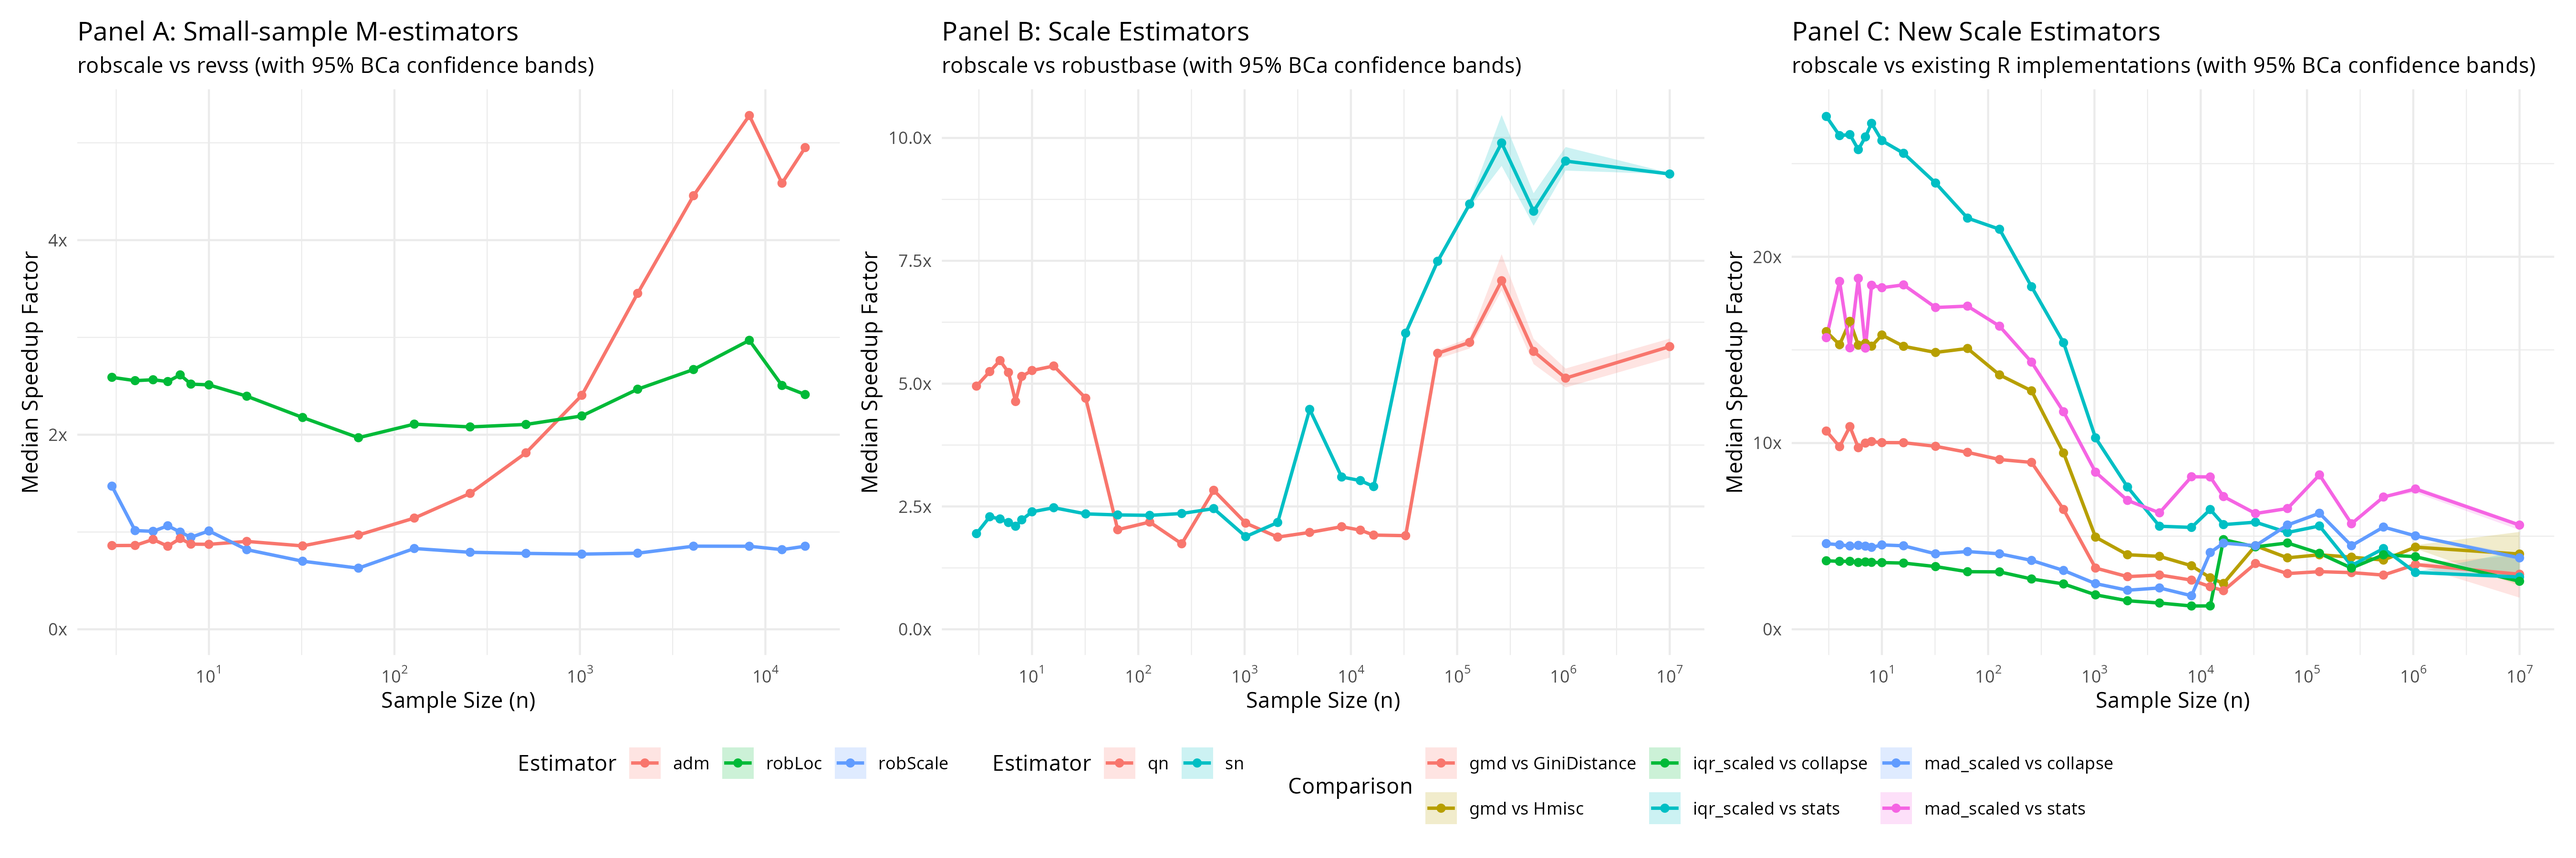
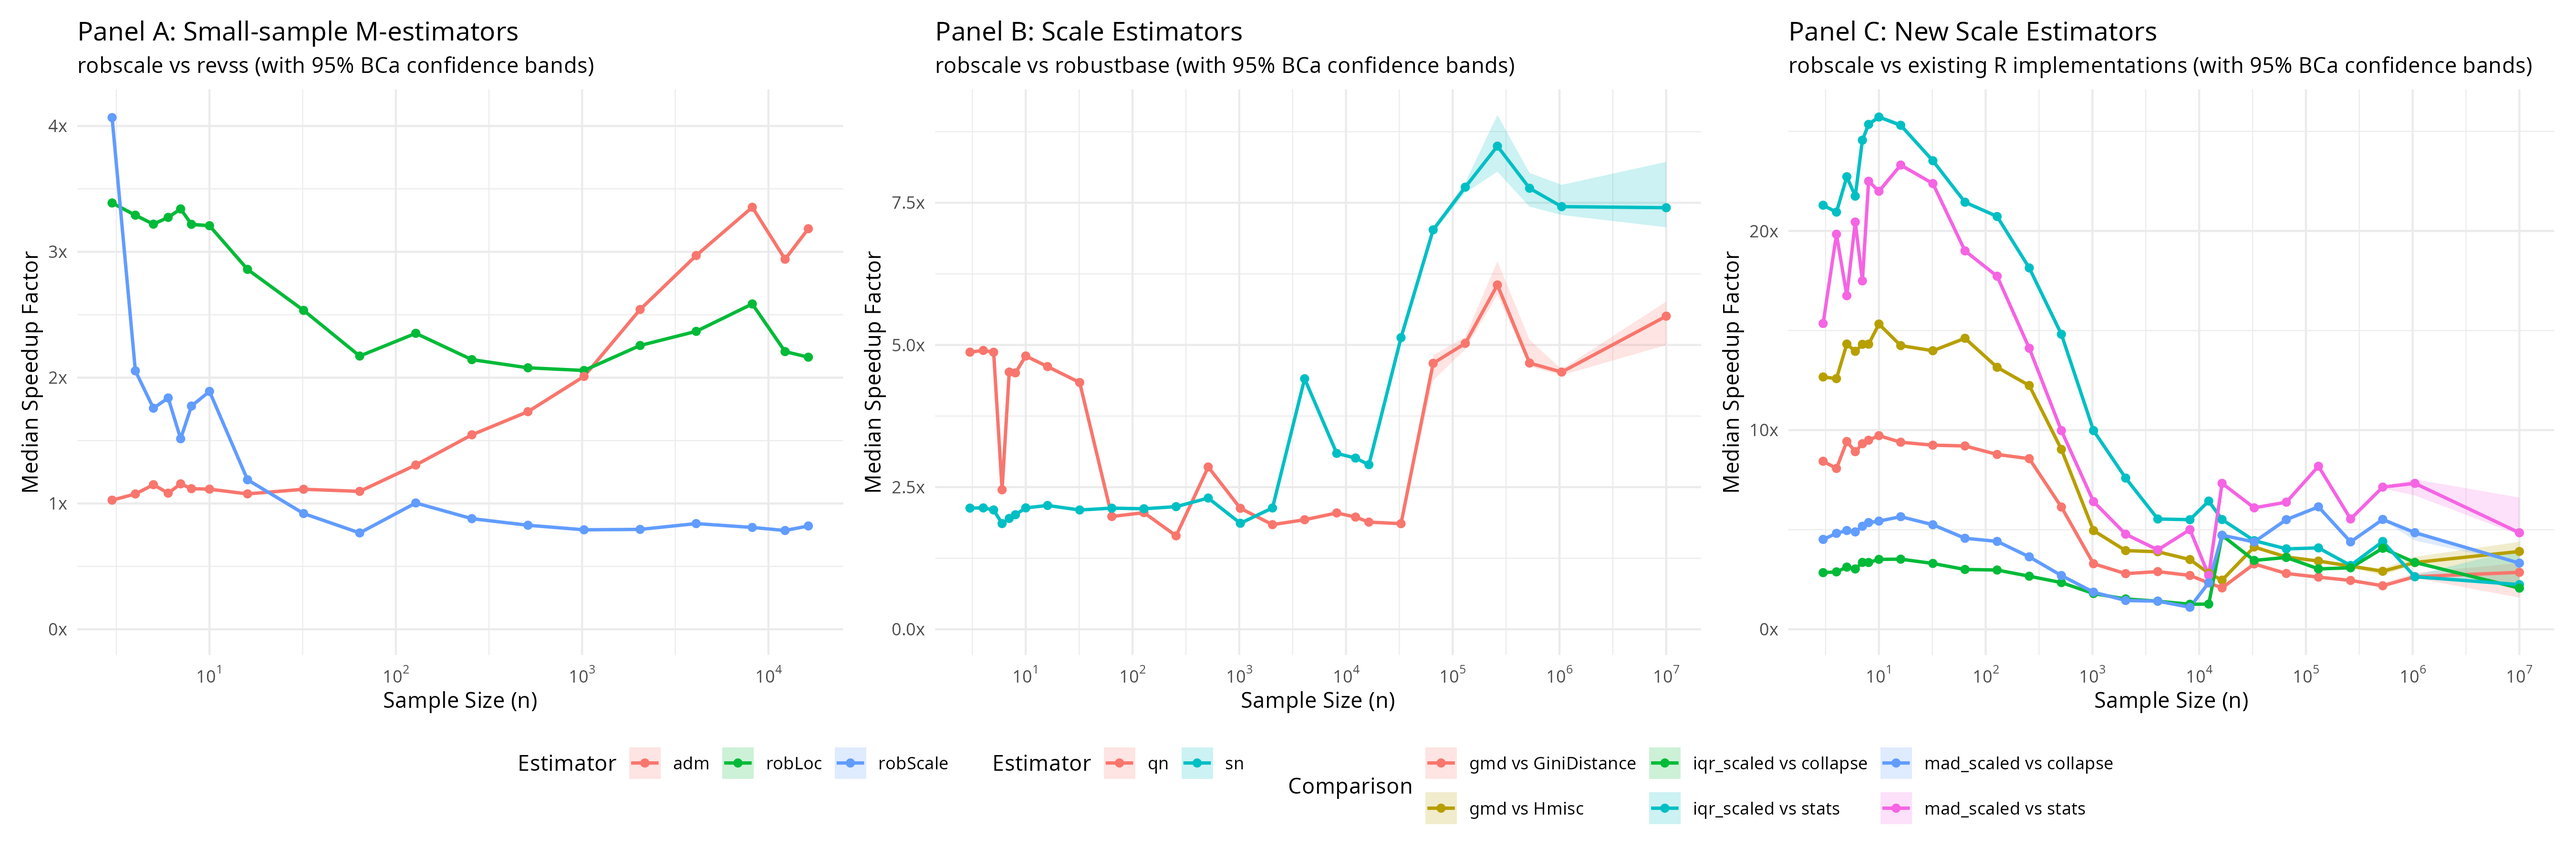
docs: update benchmarks for n <= 64 optimal selection networks

diff --git a/README.md b/README.md
@@ -27,13 +27,13 @@ All estimators are implemented as C++17 kernels. The M-estimators use
 vectorized `tanh` evaluation (where batch sizes justify the overhead)
 and Newton–Raphson iteration; $`Q_n`$ and $`S_n`$ use parallelized
 $`O(n \log n)`$ algorithms via TBB. Against `revss`, the package achieves
-**0.8–2.6x** speedups for the small-sample M-estimators. Against
-`robustbase`, it achieves **1.9–9.9x** for $`S_n`$ and **1.7–7.1x** for
-$`Q_n`$—with gains peaking near **9.9x** at $`n = 10^7`$ as TBB parallelism
+**1.0–4.1x** speedups for the small-sample M-estimators. Against
+`robustbase`, it achieves **1.9–8.5x** for $`S_n`$ and **1.6–6.1x** for
+$`Q_n`$—with gains peaking near **8.5x** at $`n = 10^7`$ as TBB parallelism
 reduces the computational bottleneck for massive datasets. The new
 estimators (`gmd`, `iqr_scaled`, `mad_scaled`) outperform their base R
-and CRAN counterparts by **2.5–16.5x** (GMD vs `Hmisc`), **2.8–27.5x**
-(IQR vs `stats::IQR`), and **5.6–18.8x** (MAD vs `stats::mad`).
+and CRAN counterparts by **2.5–15.3x** (GMD vs `Hmisc`), **2.2–25.7x**
+(IQR vs `stats::IQR`), and **2.7–23.3x** (MAD vs `stats::mad`).
 
 ## Installation
 
@@ -739,12 +739,12 @@ Table 3
 
 |      $`n`$ | `robustbase::Qn` | `robscale::qn` | Speedup  |
 |---------:|:-----------------|:---------------|:---------|
-|        8 | 9.5 µs           | 1.8 µs         | **5.1x** |
-|       16 | 10.4 µs          | 1.9 µs         | **5.4x** |
-|       64 | 15.1 µs          | 7.4 µs         | **2.0x** |
-|     1024 | 468.2 µs         | 215.6 µs       | **2.2x** |
-|    65536 | 59586.2 µs       | 10591.2 µs     | **5.6x** |
-| 10000000 | 10.6 s           | 1.8 s          | **5.8x** |
+|        8 | 9.5 µs           | 2.1 µs         | **4.5x** |
+|       16 | 10.4 µs          | 2.3 µs         | **4.6x** |
+|       64 | 15.1 µs          | 7.6 µs         | **2.0x** |
+|     1024 | 468.2 µs         | 220.0 µs       | **2.1x** |
+|    65536 | 59586.2 µs       | 12208.7 µs     | **4.7x** |
+| 10000000 | 10.6 s           | 1.9 s          | **5.5x** |
 
 </div>
 
@@ -754,12 +754,12 @@ Table 4
 
 |      $`n`$ | `robustbase::Sn` | `robscale::sn` | Speedup  |
 |---------:|:-----------------|:---------------|:---------|
-|        8 | 4.0 µs           | 1.8 µs         | **2.2x** |
-|       16 | 4.5 µs           | 1.8 µs         | **2.5x** |
-|       64 | 5.6 µs           | 2.4 µs         | **2.3x** |
-|     1024 | 35.2 µs          | 18.7 µs        | **1.9x** |
-|    65536 | 6751.1 µs        | 908.0 µs       | **7.5x** |
-| 10000000 | 1.4 s            | 0.2 s          | **9.3x** |
+|        8 | 4.0 µs           | 2.0 µs         | **2.0x** |
+|       16 | 4.5 µs           | 2.1 µs         | **2.2x** |
+|       64 | 5.6 µs           | 2.6 µs         | **2.1x** |
+|     1024 | 35.2 µs          | 18.9 µs        | **1.9x** |
+|    65536 | 6751.1 µs        | 973.8 µs       | **7.0x** |
+| 10000000 | 1.4 s            | 0.2 s          | **7.4x** |
 
 </div>
 
@@ -849,7 +849,7 @@ compares `qn` and `sn` against `robustbase`; Panel C compares `gmd`,
 ### Small-sample M-estimators vs. `revss` (Panel A)
 
 In the target regime ($`n \le 20`$), `robscale` outperforms `revss` by
-**0.8–2.6x**. Drivers include:
+**1.0–4.1x**. Drivers include:
 
 - Transitioning from interpreted R to compiled C++17.
 - Achieving quadratic convergence with Newton–Raphson (3 iterations vs
@@ -857,7 +857,7 @@ In the target regime ($`n \le 20`$), `robscale` outperforms `revss` by
 - Eliminating heap allocation via stack-allocated memory arenas.
 - Deploying optimal sorting networks for $`n \le 16`$.
 
-Even at $`n = 16{,}384`$, the gains remain **0.9–5.0x** because the
+Even at $`n = 16{,}384`$, the gains remain **0.8–3.2x** because the
 interpreter overhead of `revss` scales with the number of Newton–Raphson
 iterations, not just vector length.
 
@@ -867,15 +867,15 @@ For $`Q_n`$ and $`S_n`$, the performance story follows two regimes separated
 by the parallelism threshold:
 
 **Small to medium samples ($`n \le 10^3`$).** `robscale` leads by
-**1.7–7.1x**. The gain comes primarily from the avoidance of R dispatch
+**1.6–6.1x**. The gain comes primarily from the avoidance of R dispatch
 overhead and the use of stack memory. For $`Q_n`$ at $`n = 8`$, the
-brute-force exact algorithm completes in 1.8 µs vs. 9.5 µs for
-`robustbase` — a **5.1x** edge.
+brute-force exact algorithm completes in 2.1 µs vs. 9.5 µs for
+`robustbase` — a **4.5x** edge.
 
-**Large samples ($`n \ge 10^4`$).** The advantage grows to **1.9–9.9x** as
-TBB parallelism engages. At $`n = 10^7`$, `qn` runs in 1.8 s vs. 10.6 s
-for `robustbase::Qn` (**5.8x**), and `sn` runs in 0.2 s vs. 1.4 s
-(**9.3x**). Parallel efficiency is bounded by Amdahl’s Law and memory
+**Large samples ($`n \ge 10^4`$).** The advantage grows to **1.9–8.5x** as
+TBB parallelism engages. At $`n = 10^7`$, `qn` runs in 1.9 s vs. 10.6 s
+for `robustbase::Qn` (**5.5x**), and `sn` runs in 0.2 s vs. 1.4 s
+(**7.4x**). Parallel efficiency is bounded by Amdahl’s Law and memory
 bandwidth; while the multi-threaded kernels provide substantial gains
 for massive datasets, speedups do not scale linearly with thread count.
 
@@ -887,52 +887,52 @@ Table 5
 
 |      $`n`$ | Comparison             | Speedup   |
 |---------:|:-----------------------|:----------|
-|       64 | gmd vs GiniDistance    | **9.5x**  |
-|       64 | gmd vs Hmisc           | **15.1x** |
-|       64 | iqr_scaled vs collapse | **3.1x**  |
-|       64 | iqr_scaled vs stats    | **22.1x** |
-|       64 | mad_scaled vs collapse | **4.2x**  |
-|       64 | mad_scaled vs stats    | **17.4x** |
+|       64 | gmd vs GiniDistance    | **9.2x**  |
+|       64 | gmd vs Hmisc           | **14.6x** |
+|       64 | iqr_scaled vs collapse | **3.0x**  |
+|       64 | iqr_scaled vs stats    | **21.4x** |
+|       64 | mad_scaled vs collapse | **4.6x**  |
+|       64 | mad_scaled vs stats    | **19.0x** |
 |     1024 | gmd vs GiniDistance    | **3.3x**  |
-|     1024 | gmd vs Hmisc           | **4.9x**  |
-|     1024 | iqr_scaled vs collapse | **1.9x**  |
-|     1024 | iqr_scaled vs stats    | **10.3x** |
-|     1024 | mad_scaled vs collapse | **2.5x**  |
-|     1024 | mad_scaled vs stats    | **8.4x**  |
-|    65536 | gmd vs GiniDistance    | **3.0x**  |
-|    65536 | gmd vs Hmisc           | **3.8x**  |
-|    65536 | iqr_scaled vs collapse | **4.6x**  |
-|    65536 | iqr_scaled vs stats    | **5.2x**  |
-|    65536 | mad_scaled vs collapse | **5.6x**  |
-|    65536 | mad_scaled vs stats    | **6.5x**  |
-| 10000000 | gmd vs GiniDistance    | **3.0x**  |
-| 10000000 | gmd vs Hmisc           | **4.0x**  |
-| 10000000 | iqr_scaled vs collapse | **2.6x**  |
-| 10000000 | iqr_scaled vs stats    | **2.8x**  |
-| 10000000 | mad_scaled vs collapse | **3.8x**  |
-| 10000000 | mad_scaled vs stats    | **5.6x**  |
+|     1024 | gmd vs Hmisc           | **5.0x**  |
+|     1024 | iqr_scaled vs collapse | **1.8x**  |
+|     1024 | iqr_scaled vs stats    | **10.0x** |
+|     1024 | mad_scaled vs collapse | **1.9x**  |
+|     1024 | mad_scaled vs stats    | **6.4x**  |
+|    65536 | gmd vs GiniDistance    | **2.8x**  |
+|    65536 | gmd vs Hmisc           | **3.6x**  |
+|    65536 | iqr_scaled vs collapse | **3.6x**  |
+|    65536 | iqr_scaled vs stats    | **4.0x**  |
+|    65536 | mad_scaled vs collapse | **5.5x**  |
+|    65536 | mad_scaled vs stats    | **6.4x**  |
+| 10000000 | gmd vs GiniDistance    | **2.9x**  |
+| 10000000 | gmd vs Hmisc           | **3.9x**  |
+| 10000000 | iqr_scaled vs collapse | **2.1x**  |
+| 10000000 | iqr_scaled vs stats    | **2.2x**  |
+| 10000000 | mad_scaled vs collapse | **3.3x**  |
+| 10000000 | mad_scaled vs stats    | **4.8x**  |
 
 </div>
 
-**GMD** (`robscale::gmd` vs `Hmisc::GiniMd`): **2.5–16.5x** speedup.
+**GMD** (`robscale::gmd` vs `Hmisc::GiniMd`): **2.5–15.3x** speedup.
 `Hmisc::GiniMd` is a pure R implementation using the same $`O(n \log n)`$
 order-statistics formula. The speedup comes from C++ compilation and
 sorting networks for small $`n`$. Against `GiniDistance::gmd` (an
-Rcpp-backed C++ implementation), the comparison is **2.1–10.9x**—a
+Rcpp-backed C++ implementation), the comparison is **2.1–9.7x**—a
 tighter race since both are compiled, with `robscale`’s advantage coming
 from sorting networks and the consistency-constant integration.
 
-**IQR** (`robscale::iqr_scaled` vs `stats::IQR`): **2.8–27.5x** speedup.
+**IQR** (`robscale::iqr_scaled` vs `stats::IQR`): **2.2–25.7x** speedup.
 `stats::IQR` performs a full $`O(n \log n)`$ sort via `quantile()`.
 `robscale` uses dual $`O(n)`$ pdqselect calls, which dominate at large
 $`n`$. Against `collapse::fquantile` (a C-backed quantile implementation),
-the speedup is **1.3–4.8x**—a more informative comparison since both are
+the speedup is **1.3–4.7x**—a more informative comparison since both are
 compiled, revealing whether pdqselect outpaces `collapse`’s C
 implementation.
 
-**MAD** (`robscale::mad_scaled` vs `stats::mad`): **5.6–18.8x** speedup.
+**MAD** (`robscale::mad_scaled` vs `stats::mad`): **2.7–23.3x** speedup.
 `stats::mad` performs a full sort for the median step. Against a custom
-fast MAD (using `collapse::fmedian`), the speedup is **1.8–6.2x**—the
+fast MAD (using `collapse::fmedian`), the speedup is **1.1–6.1x**—the
 key comparison since both are compiled; `robscale`’s advantage comes
 from adaptive $`O(n)`$ selection vs `collapse`’s sorting-based approach.
 
